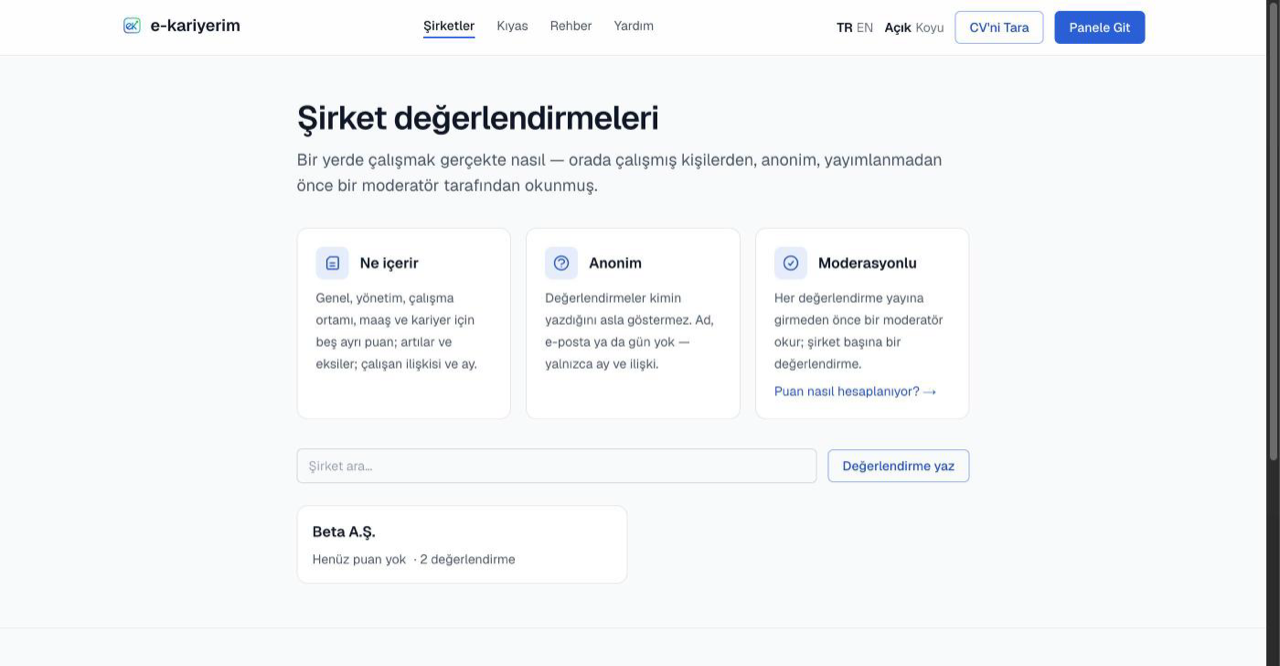
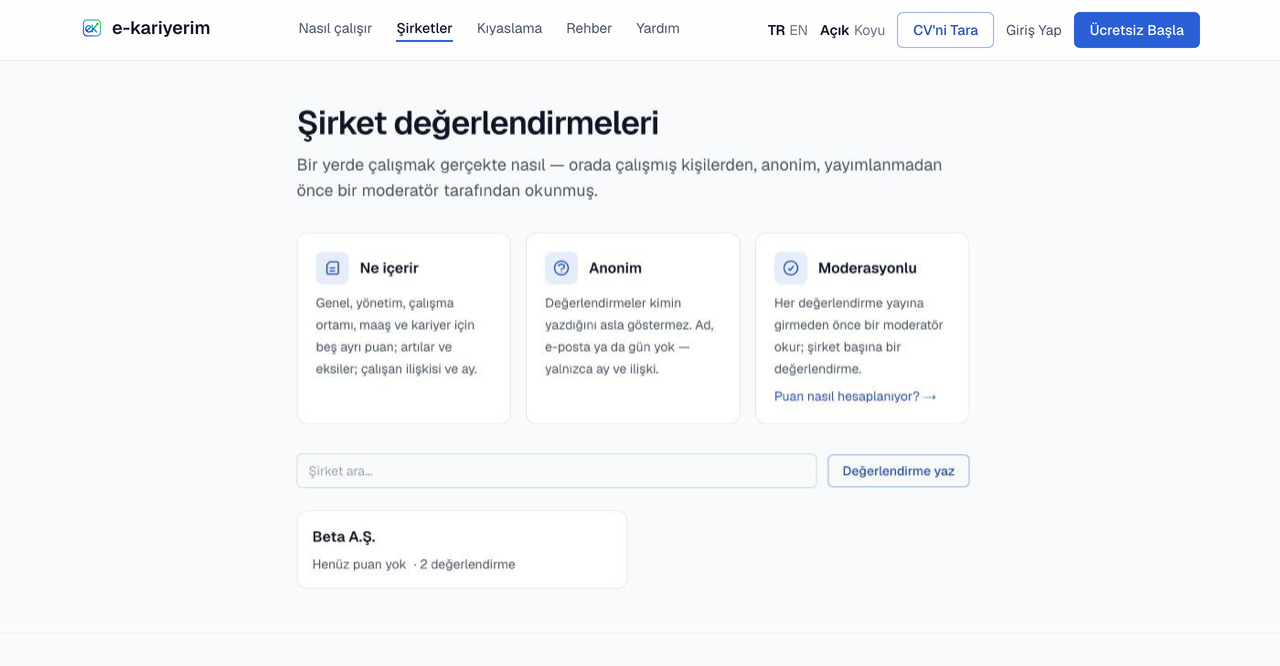
Refresh the help-centre screenshots for the regrouped navigation
The seventeen help images that show the site chrome still carried the
pre-2026-09-15 flat navbar. Their bodies — filled forms, selected rows, a
scan result, the deleted 127-application dashboard seed — are unchanged, so
only the header strip was re-shot: headless Chrome over CDP on each image's
own route, signed in as the demo account where the original was, then
composited over the existing body at the original size. Active section,
the suggestions count and the form page's hidden button all come from the
real app. The public header grew from 56 to 61 px, so those three bodies
shift five pixels; the 1265-px dashboard image was shot at 1490 px and
downscaled to match its 0.85 scale.

The applications page's own "New application" button is phone-only now,
like the dashboard's since #64 — the header carries one on every page —
and it no longer nests a <button> inside a <Link>. The four desktop images
that showed it were painted out; the captured scrollbar column on the three
public images was removed.

diff --git a/web/src/app/[locale]/(protected)/applications/page.tsx b/web/src/app/[locale]/(protected)/applications/page.tsx
@@ -46,7 +46,7 @@ import { type BulkResult, BulkResultBanner } from "@/components/applications/Bul
 import { BulkStatusDialog } from "@/components/applications/BulkStatusDialog";
 import { CompanyGroupTable } from "@/components/applications/CompanyGroupTable";
 import { Pagination } from "@/components/applications/Pagination";
-import { Button } from "@/components/ui/Button";
+import { buttonClassName } from "@/components/ui/Button";
 
 const PAGE_SIZE = 10;
 /** Companies, not applications: each one draws its own applications underneath, so ten groups is
@@ -269,8 +269,10 @@ export default function ApplicationsListPage() {
     <div className={`flex flex-col gap-4 ${isSelectionEmpty(selection) ? "" : "pb-24 lg:pb-20"}`}>
       <div className="flex items-center justify-between">
         <h1 className="text-xl font-semibold text-gray-900 dark:text-gray-100">{t("title")}</h1>
-        <Link href="/applications/new">
-          <Button>{t("newApplication")}</Button>
+        {/* Phones only, like the dashboard's: the header carries this button on every page since
+            2026-09-17, and on a desktop two identical buttons in one view read as a mistake. */}
+        <Link href="/applications/new" className={buttonClassName("primary", "md:hidden")}>
+          {t("newApplication")}
         </Link>
       </div>
 

diff --git a/DECISIONS.md b/DECISIONS.md
@@ -7227,3 +7227,15 @@ düz navbar'ı gösteriyordu; bu değişiklikle yeniden çekilmedi, ayrı iş. E
 CORS yalnız 3000'e izinli, 3100'de OAuth düğmeleri kaybolup yanıltmıştı) + yerel API ile Chrome'da
 1400px ve 400px: ziyaretçi header/footer, giriş yapmış satır + üç dropdown + avatar, mobil
 çekmece, /contribute'ta Şirketler altı çizili.
+
+**Ek (aynı gün, yardım merkezi görselleri).** 17 yardım ekran görüntüsü (uzantı, giriş/kayıt ve
+hesap-silme hariç hepsi) yeni navigasyona güncellendi. Reçete: gövde durumları (dolu formlar,
+seçili satırlar, tarama sonucu, 127-başvuruluk silinmiş dashboard tohumu) aynen geçerli olduğundan
+**yalnız header şeridi** demo hesapla, her görselin kendi rotasında headless Chrome/CDP ile yeniden
+çekildi (aktif sekme, 3'lü Öneriler rozeti, /applications/new'de gizlenen buton gerçek uygulamadan)
+ve eski gövdenin üstüne bindirildi; ziyaretçi header'ı 56→61 px büyüdüğü için gövde 5 px kaydı,
+boy korundu. `dashboard-overview.png` 1265 px'lik 0,85 ölçekli olduğundan header 1490 px'te çekilip
+küçültüldü. `/applications` başlık satırındaki "Yeni Başvuru" da Panel'deki gibi `md:hidden` yapıldı
+(ayrıca `<a><button>` iç içeliği giderildi); dört masaüstü görselinde bu buton zeminle boyandı.
+Ziyaretçi görsellerindeki eski kaydırma çubuğu sütunu temizlendi. Script: oturumun scratchpad'inde
+`shoot-headers.mjs` (memory'ye özetlendi).
